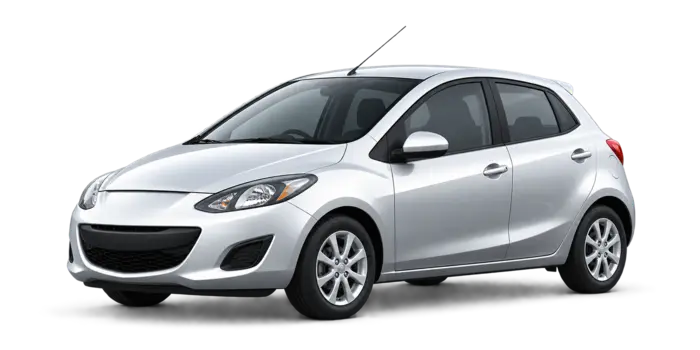
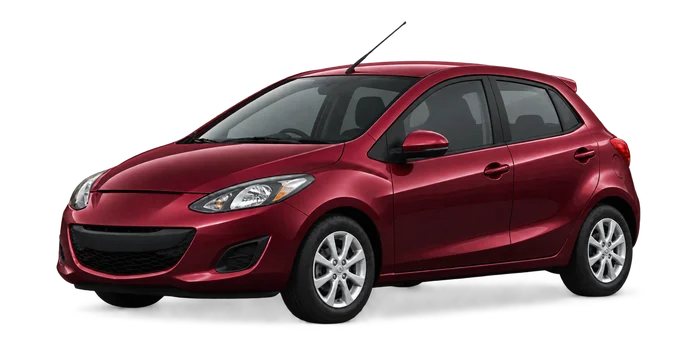
Match dashboard car paint to vehicle references

diff --git a/public/sw.js b/public/sw.js
@@ -1,5 +1,5 @@
 /* FuelMate Service Worker - app-shell cache for offline install */
-const CACHE_NAME = 'fuelmate-cache-v31';
+const CACHE_NAME = 'fuelmate-cache-v32';
 
 function urlFor(path) {
   return new URL(path, self.registration.scope).toString();

diff --git a/src/core/version.js b/src/core/version.js
@@ -1,5 +1,5 @@
 (function exposeFuelMateVersion(global) {
   global.FuelMateVersion = Object.freeze({
-    current: '4.4.2',
+    current: '4.4.3',
   });
 })(globalThis);

diff --git a/README.md b/README.md
@@ -1,4 +1,9 @@
-# FuelMate IndexedDB v4.4.2
+# FuelMate IndexedDB v4.4.3
+
+## v4.4.3 更新內容
+
+- 依照車輛照片參考色，首頁 Mazda 2 2012 車圖改為深酒紅，Honda CR-V 2018 車圖改為亮面黑色；保留車型、透明背景與切換方式。
+- IndexedDB schema 不變。App 版本 4.4.3，離線 cache v32 會重新取得兩張車圖。
 
 ## v4.4.2 更新內容
 
